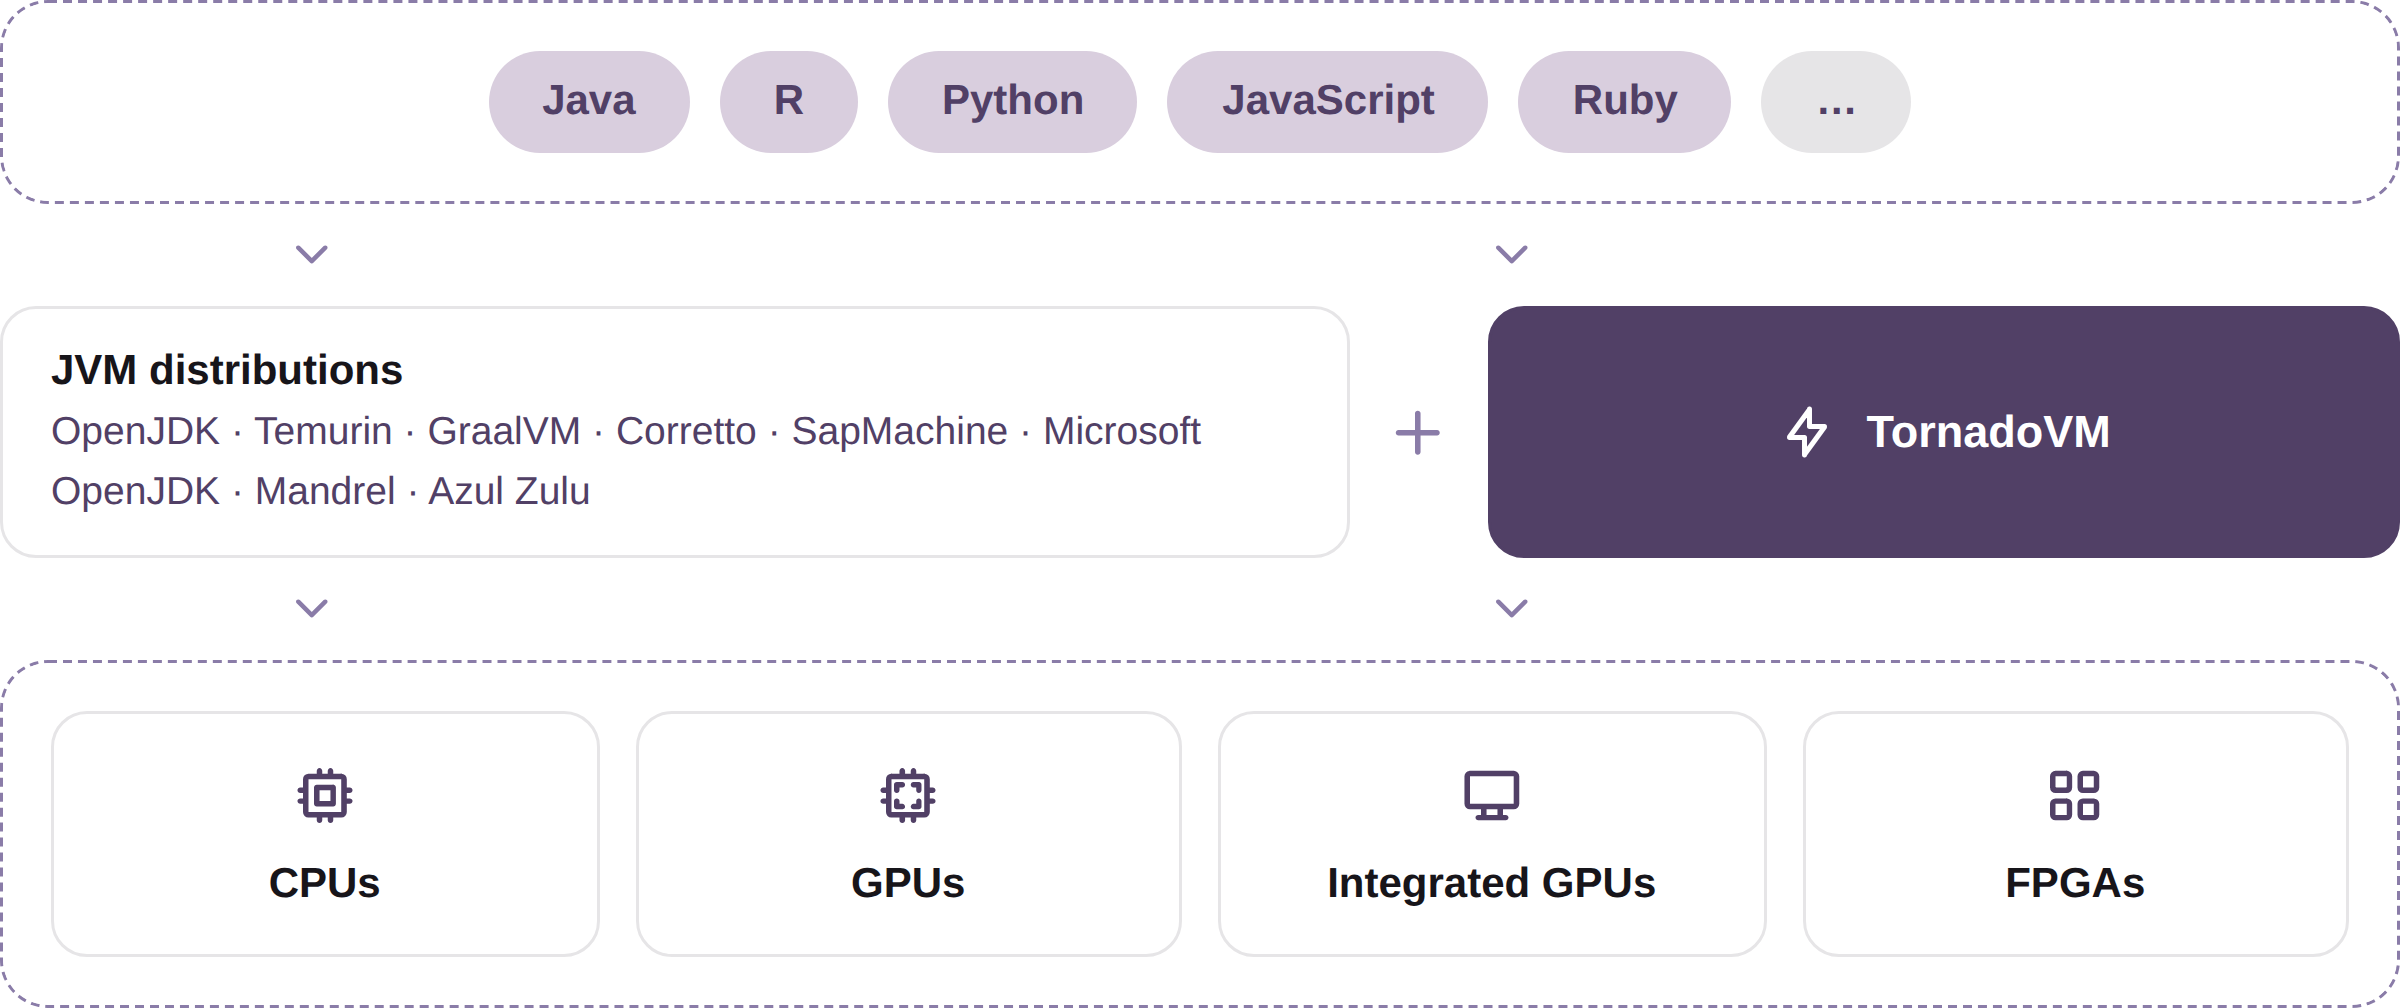
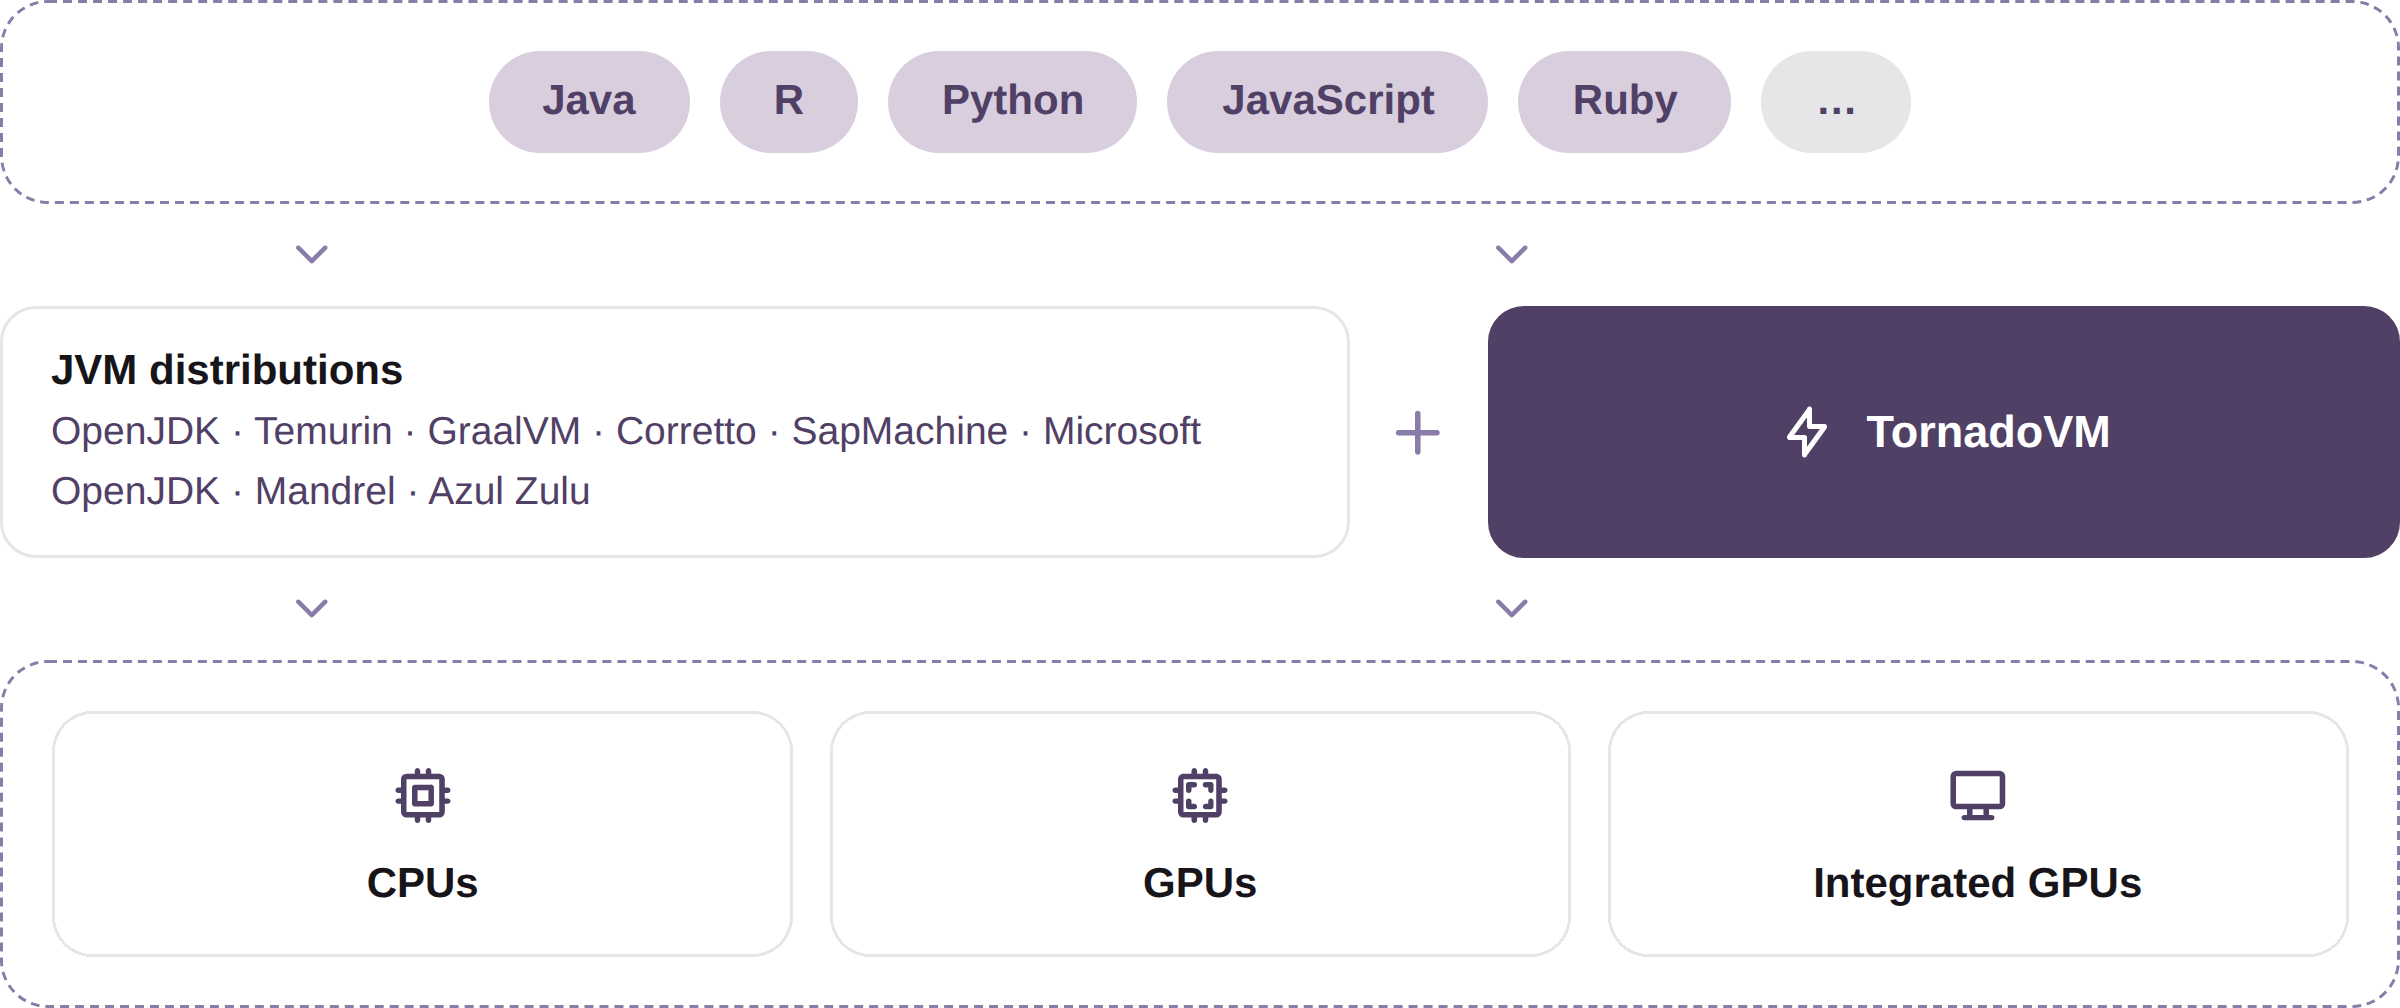
[docs] Update documentation regarding FPGA deprecation from TornadoVM

diff --git a/docs/source/introduction.rst b/docs/source/introduction.rst
@@ -10,7 +10,8 @@ Introduction to TornadoVM
 TornadoVM is a plug-in to OpenJDK and other JDK distributions (e.g., GraalVM, SapMachine, Temurin, Red Hat Mandrel, Amazon Corretto, Microsoft OpenJDK, Azul Zulu)
 that allows developers to automatically offload and run a subset of Java programs on heterogeneous hardware.
 TornadoVM targets devices compatible with OpenCL, CUDA, and Apple Metal, which include multi-core CPUs,
-dedicated GPUs, integrated GPUs, and multi-core CPUs from multiple vendors.
+dedicated GPUs, integrated GPUs, and multi-core CPUs from multiple vendors (FPGA support was removed
+after the 5.2.0 release; to run TornadoVM on FPGAs, use TornadoVM <= 5.2.0).
 
 .. image:: images/tornadovm-01.png
   :width: 800
